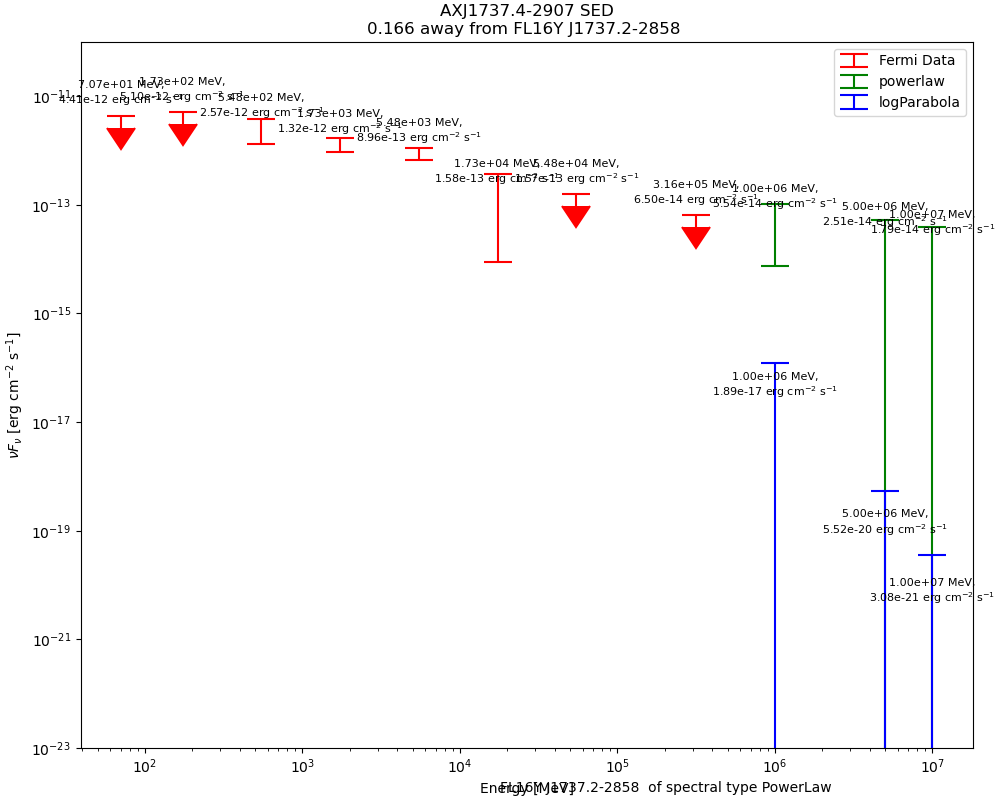
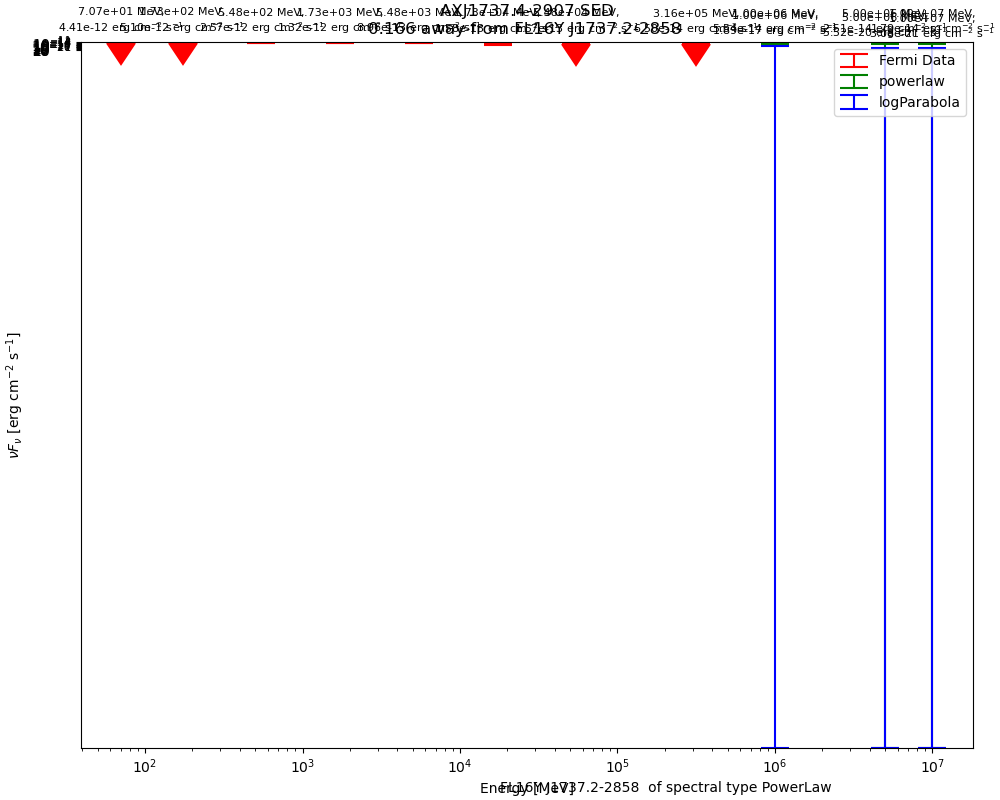
bounds

diff --git a/fermi/sourcesfermi.py b/fermi/sourcesfermi.py
@@ -163,7 +163,8 @@ for i, s in enumerate(sourceName):
                 unc_nufnu_lower[i][j] = 0.4 * nufnu[i][j]
     
         plt.figure(figsize=(10,8),layout='constrained')
-        plt.ylim(1e-23,1e-10)    
+        plt.ylim(nuFnu_LP[-1]-nuFnu_LP_err[-1],
+                np.max(nufnu[0]+unc_nufnu_upper[0]))    
 
         plt.errorbar(e_mids,nufnu[i],
                 yerr=[unc_nufnu_lower[i],unc_nufnu_upper[i]],
